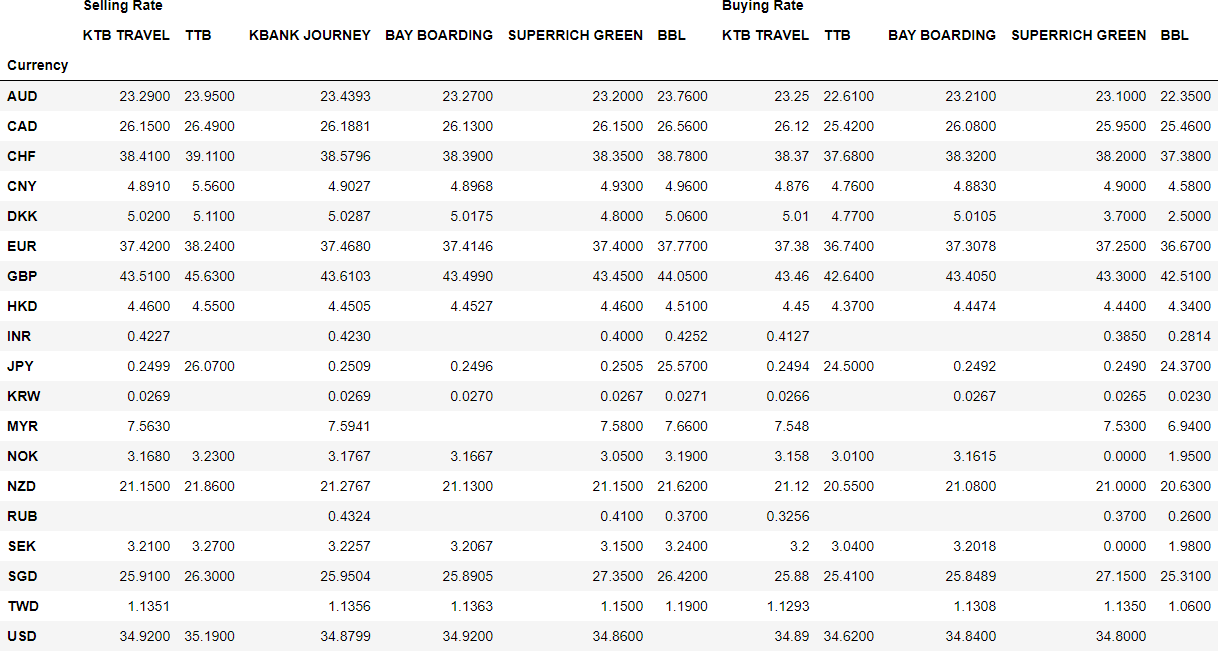
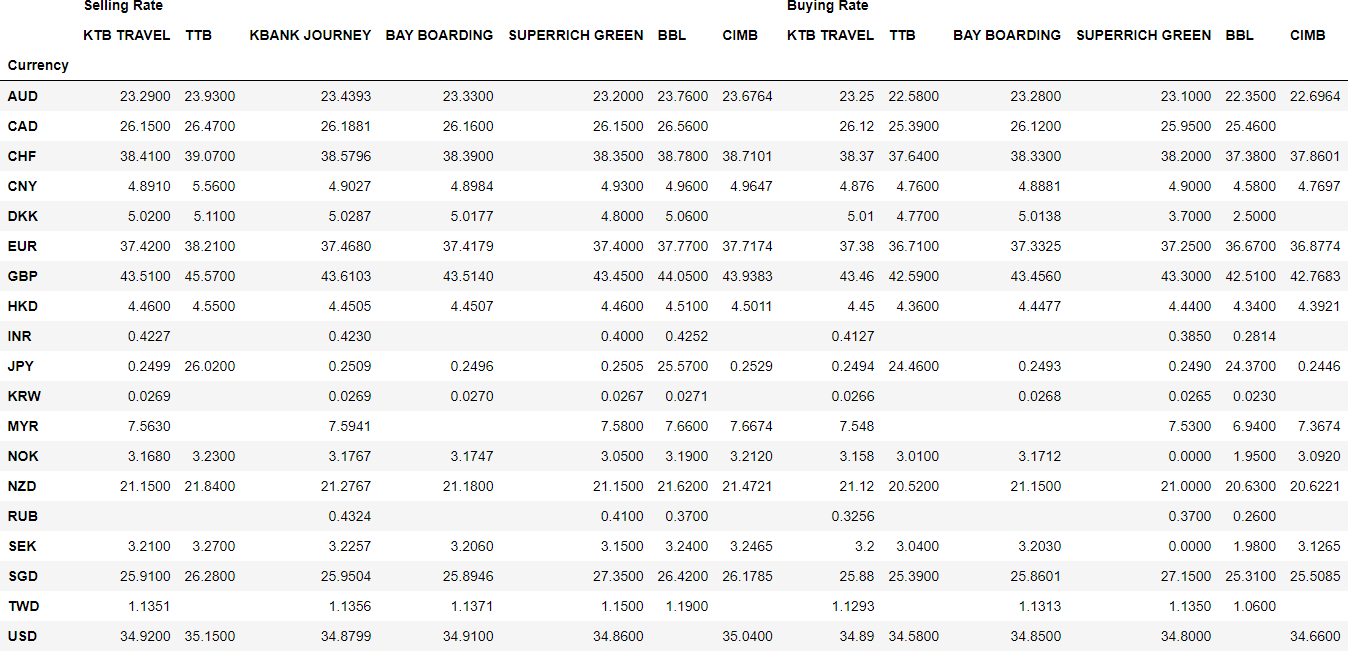
Add CIMB exchange rates

diff --git a/currency_scrapping_manual.py b/currency_scrapping_manual.py
@@ -188,6 +188,37 @@ def scrape_website(bank_abbv_name, url, selected_cur_list=None):
             lambda x: "{:.4f}".format(float(x)))
         exc_val_df["bank_abbv_name"] = bank_abbv_name
         exc_val_df = selected_currency(exc_val_df, selected_cur_list)
+    elif bank_abbv_name == 'CIMB':
+        options = Options()
+        options.headless = True
+        driver = webdriver.Chrome(
+            '~/Downloads/chromedriver_mac64/chromedriver', options=options)
+        driver.get(url)
+        exc_val_df = pd.read_html(driver.find_element(
+            By.XPATH, '//table').get_attribute('outerHTML'), encoding='utf-8')[0]
+
+        exc_val_df = exc_val_df[['Currency Code',
+                                 'Buying Rates', 'Selling Rates']]
+        exc_val_df.columns = ['_'.join(col)
+                              for col in exc_val_df.columns.values]
+        exc_val_df.rename(columns={
+            'Currency Code_Currency Code': 'currency',
+            'Buying Rates_Unnamed: 2_level_1': 'buying_rate',
+            'Selling Rates_Telegraphic Transfer': 'selling_rate'},
+            inplace=True)
+        exc_val_df = exc_val_df[['currency', 'buying_rate', 'selling_rate']].drop_duplicates(
+            'currency', keep='first')
+        exc_val_df = exc_val_df[(exc_val_df['buying_rate'] != '-') & (
+            exc_val_df['selling_rate'] != '-')]
+        exc_val_df.loc[exc_val_df['currency'] ==
+                       'USD50-100', 'currency'] = 'USD'
+
+        exc_val_df["selling_rate"] = exc_val_df["selling_rate"].apply(
+            lambda x: "{:.4f}".format(float(x)))
+        exc_val_df["buying_rate"] = exc_val_df["buying_rate"].apply(
+            lambda x: "{:.4f}".format(float(x)))
+        exc_val_df["bank_abbv_name"] = bank_abbv_name
+        exc_val_df = selected_currency(exc_val_df, selected_cur_list)
 
     # save_df2img(tmp_df.set_index('bank_abbv_name'),'Test_save_'+bank_abbv_name)
     # save_dataframe_image(tmp_df.set_index('bank_abbv_name'),'Test_save_'+bank_abbv_name)
@@ -210,17 +241,19 @@ spr_df = scrape_website(
     "SUPERRICH GREEN", "https://www.superrichthailand.com/#!/en/exchange")
 bbl_df = scrape_website(
     "BBL", "https://www.bangkokbank.com/en/Personal/Other-Services/View-Rates/Foreign-Exchange-Rates")
+cimb_df = scrape_website(
+    "CIMB", "https://www.cimbthai.com/en/personal/help-support/rates-charges/foreign-exchange-rates.html")
 
 combined_df = pd.concat([kbank_c_df, bay_c_df, ttb_df,
-                        ktb_df, spr_df, bbl_df]).reset_index(drop=True)
+                        ktb_df, spr_df, bbl_df, cimb_df]).reset_index(drop=True)
 selected_cur = ktb_df.currency.unique().tolist()
 tmp = combined_df.copy()
 tmp.rename(columns={'bank_abbv_name': '', 'buying_rate': 'Buying Rate',
            'selling_rate': 'Selling Rate', 'currency': 'Currency'}, inplace=True)
 pivoted_df = tmp.pivot(index='Currency', columns='', values=[
                        'Buying Rate', 'Selling Rate'])
-pivoted_df = pivoted_df[[('Selling Rate', 'KTB TRAVEL'), ('Selling Rate', 'TTB'), ('Selling Rate', 'KBANK JOURNEY'), ('Selling Rate', 'BAY BOARDING'), ('Selling Rate', 'SUPERRICH GREEN'), ('Selling Rate', 'BBL'), ('Buying Rate', 'KTB TRAVEL'), ('Buying Rate', 'TTB')                        # ,('Buying Rate','KBANK JOURNEY')
-                         , ('Buying Rate', 'BAY BOARDING'), ('Buying Rate', 'SUPERRICH GREEN'), ('Buying Rate', 'BBL')]]
+pivoted_df = pivoted_df[[('Selling Rate', 'KTB TRAVEL'), ('Selling Rate', 'TTB'), ('Selling Rate', 'KBANK JOURNEY'), ('Selling Rate', 'BAY BOARDING'), ('Selling Rate', 'SUPERRICH GREEN'), ('Selling Rate', 'BBL'), ('Selling Rate', 'CIMB'), ('Buying Rate', 'KTB TRAVEL'), ('Buying Rate', 'TTB')                        # ,('Buying Rate','KBANK JOURNEY')
+                         , ('Buying Rate', 'BAY BOARDING'), ('Buying Rate', 'SUPERRICH GREEN'), ('Buying Rate', 'BBL'), ('Buying Rate', 'CIMB')]]
 
 # without BAYBOARDING
 # pivoted_df = pivoted_df[[('Selling Rate', 'KTB TRAVEL'), ('Selling Rate', 'TTB'), ('Selling Rate', 'KBANK JOURNEY'), ('Selling Rate', 'SUPERRICH GREEN'), ('Buying Rate', 'KTB TRAVEL'), ('Buying Rate', 'TTB')                        # ,('Buying Rate','KBANK JOURNEY')

diff --git a/test_cimb.py b/test_cimb.py
@@ -11,8 +11,8 @@ from selenium.webdriver.common.by import By
 import dataframe_image as dfi
 # import ssl
 
-url = "https://www.bangkokbank.com/en/Personal/Other-Services/View-Rates/Foreign-Exchange-Rates"
-bank_abbv_name = "BBL"
+url = "https://www.cimbthai.com/en/personal/help-support/rates-charges/foreign-exchange-rates.html"
+bank_abbv_name = "CIMB"
 # response = requests.get(url)
 # soup = BeautifulSoup(response.text, "html.parser")
 
@@ -24,18 +24,24 @@ driver.get(url)
 exc_val_df = pd.read_html(driver.find_element(
     By.XPATH, '//table').get_attribute('outerHTML'), encoding='utf-8')[0]
 
+exc_val_df = exc_val_df[['Currency Code', 'Buying Rates', 'Selling Rates']]
+exc_val_df.columns = ['_'.join(col) for col in exc_val_df.columns.values]
 exc_val_df.rename(columns={
-    'Currency': 'currency', 'Bank Notes Buying Rates': 'buying_rate', 'Bank Notes Selling Rates': 'selling_rate'}, inplace=True)
+    'Currency Code_Currency Code': 'currency',
+    'Buying Rates_Unnamed: 2_level_1': 'buying_rate',
+    'Selling Rates_Telegraphic Transfer': 'selling_rate'},
+    inplace=True)
 exc_val_df = exc_val_df[['currency', 'buying_rate', 'selling_rate']].drop_duplicates(
     'currency', keep='first')
 exc_val_df = exc_val_df[(exc_val_df['buying_rate'] != '-') & (
     exc_val_df['selling_rate'] != '-')]
+exc_val_df.loc[exc_val_df['currency'] ==
+               'USD50-100', 'currency'] = 'USD'
 
 exc_val_df["selling_rate"] = exc_val_df["selling_rate"].apply(
     lambda x: "{:.4f}".format(float(x)))
 exc_val_df["buying_rate"] = exc_val_df["buying_rate"].apply(
     lambda x: "{:.4f}".format(float(x)))
-# exc_val_df.loc[:, "currency"] = exc_val_df.loc[:,
-#                                                "currency"].apply(lambda x: x.split('  ')[0])
 exc_val_df["bank_abbv_name"] = bank_abbv_name
+
 print(exc_val_df)
